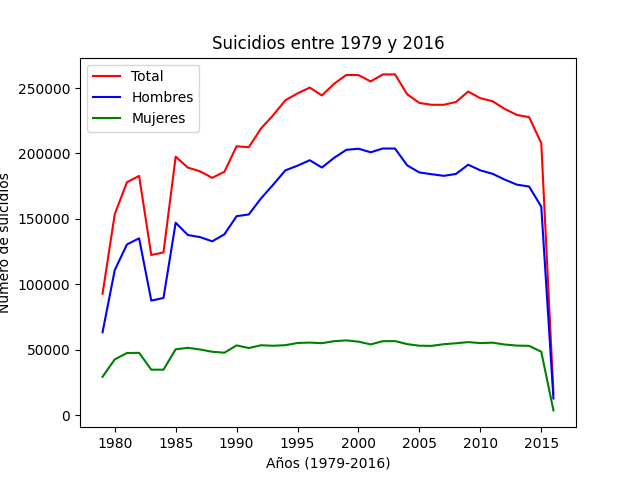
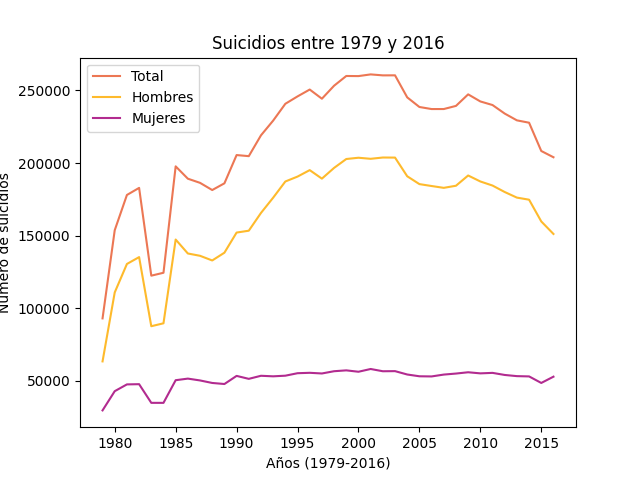
Arreglos finales para entrega

diff --git a/grafica1.py b/grafica1.py
@@ -28,9 +28,9 @@ for indice, fila in df.iterrows():
         yMujeres[int(fila["year"]) - 1979] += int(fila["suicides_no"])
 
 fig, ax = plt.subplots()
-ax.plot(xTotal, yTotal, color="red", label="Total")
-ax.plot(xHombres, yHombres, color="blue", label="Hombres")
-ax.plot(xMujeres, yMujeres, color="green", label="Mujeres")
+ax.plot(xTotal, yTotal, color="#EC7754", label="Total")
+ax.plot(xHombres, yHombres, color="#FEBA2C", label="Hombres")
+ax.plot(xMujeres, yMujeres, color="#B22B8F", label="Mujeres")
 
 plt.title("Suicidios entre 1979 y 2016")
 plt.xlabel("Años (1979-2016)")
